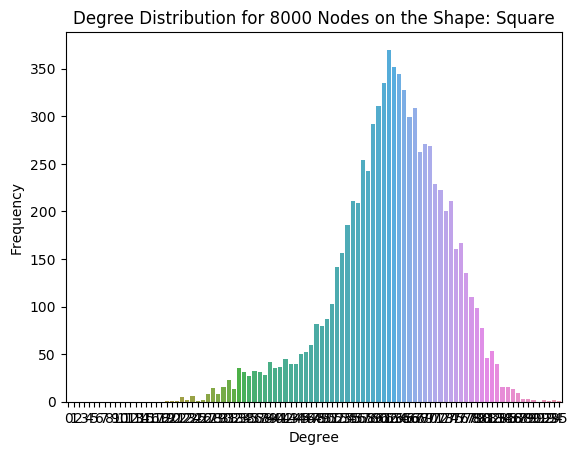
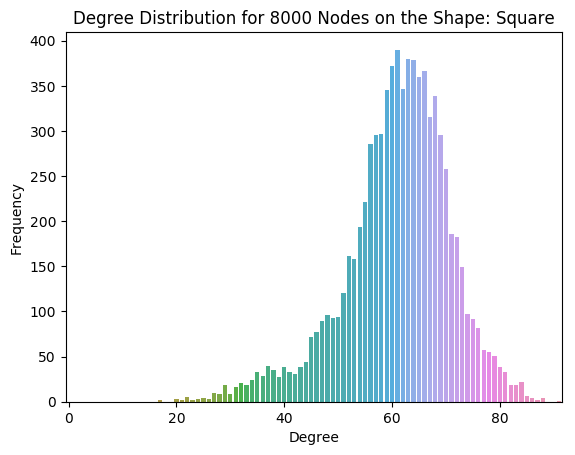
Square

Changed region(s): [[0.0296, 0.0615, 0.9757, 0.9846], [0.1183, 0.0, 0.9757, 0.0615]]

diff --git a/charts/edge_density_histogram.py b/charts/edge_density_histogram.py
@@ -1,6 +1,7 @@
 def edge_density_histogram(degrees, max_degree, graph_topology="", name=None):
     import seaborn as sns
     import matplotlib.pyplot as plt
+    import matplotlib.ticker as ticker
     from .util import clear_chart
     clear_chart()
 
@@ -10,6 +11,10 @@ def edge_density_histogram(degrees, max_degree, graph_topology="", name=None):
     ax = sns.barplot(x=list(range(max_degree+1)), y=yvals)
     plt.title("Degree Distribution for %d Nodes on the Shape: %s" % (len(degrees), graph_topology))
     plt.xlabel("Degree")
+
+    ax.xaxis.set_major_formatter(ticker.FormatStrFormatter('%d'))
+    ax.xaxis.set_major_locator(ticker.MultipleLocator(base=20))
+
     plt.ylabel("Frequency")
     if name:
         plt.savefig(name, bbox_inches="tight")

diff --git a/square.py b/square.py
@@ -56,7 +56,7 @@ if __name__ == "__main__":
         from generate_graphs import unit_square_graph
         from generate_graphs import calculate_radius_square
 
-        N = 4000
+        N = 20000
         nodes = unit_square_graph(N, A)
 
         from graph_stats import total_edges, average_degree, max_degree, min_degree
